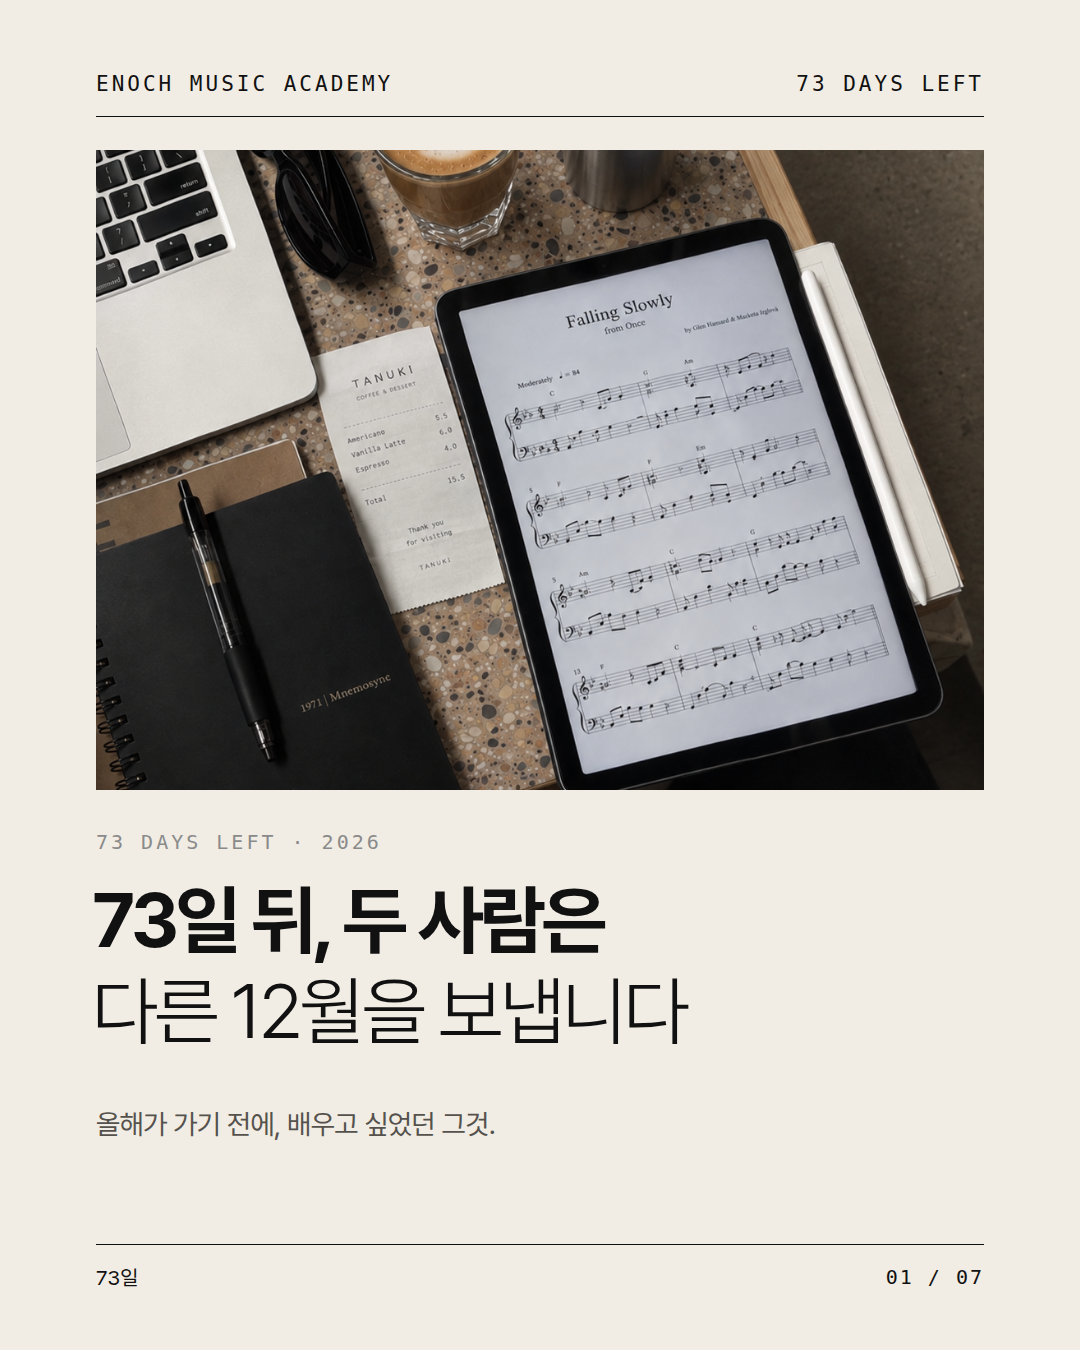
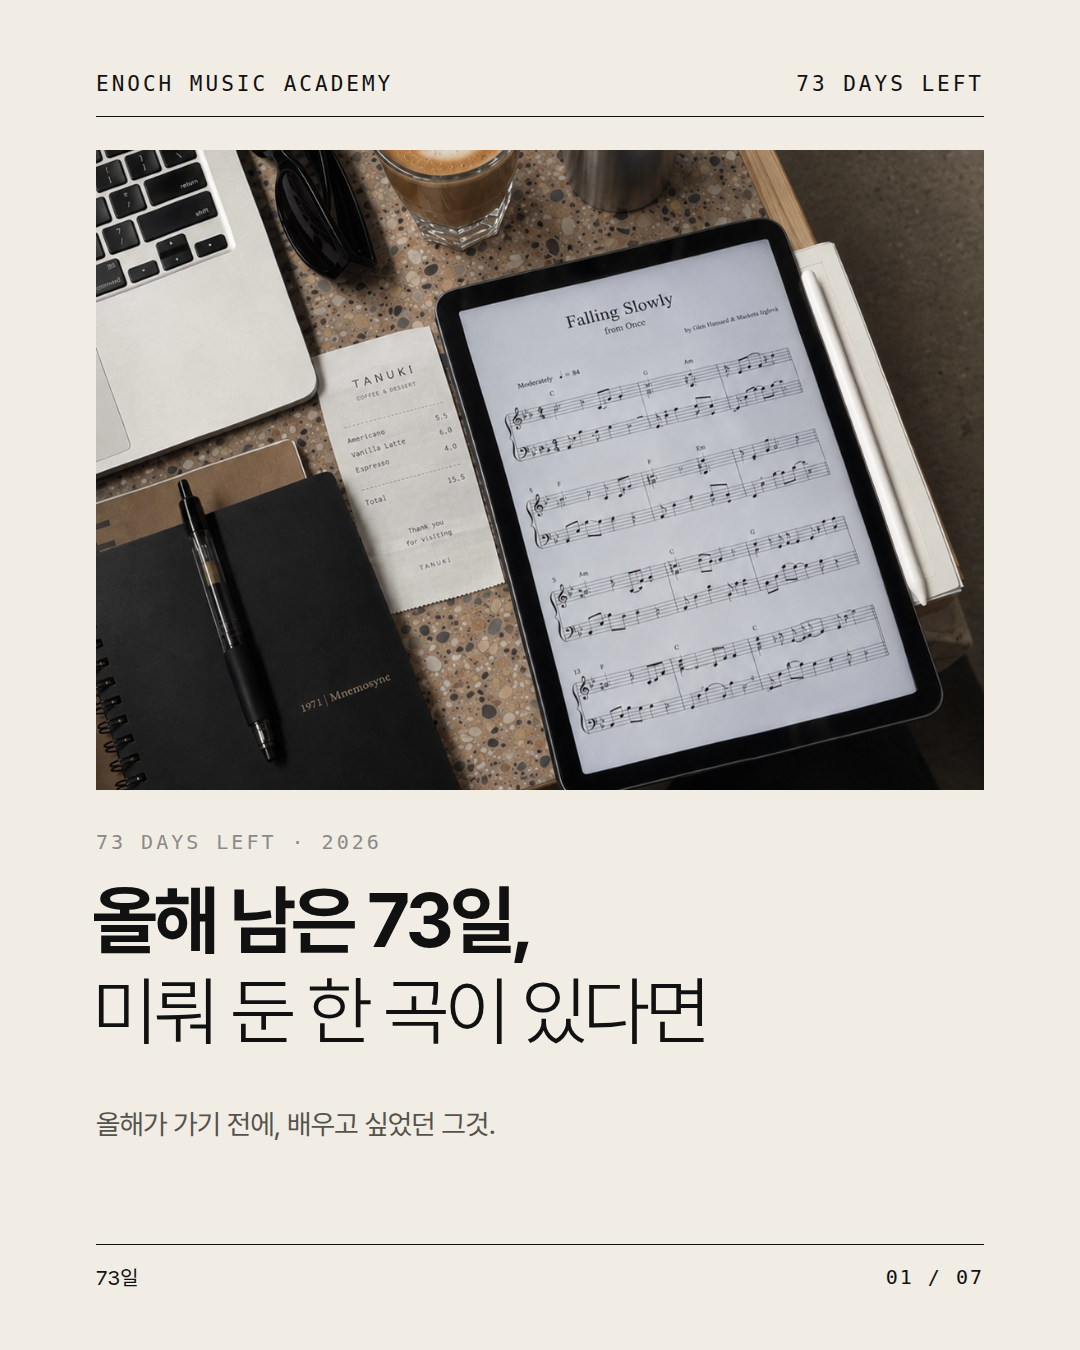
73일: 표지 제목 변경
Claude-Session: https://claude.ai/code/session_01HGbZvgMeYrbU7mY8bwfjyb

Changed region(s): [[0.0917, 0.6533, 0.6722, 0.7778]]

diff --git a/output/노트_남은날짜/deck.html b/output/노트_남은날짜/deck.html
@@ -36,7 +36,7 @@
 </style></head><body><section class="s" id="c1"><div class="hd"><span>ENOCH MUSIC ACADEMY</span><span>73 DAYS LEFT</span></div>
 <img src="../../images/기타/라이프_악보카페_01.png" style="position:absolute;left:96px;top:150px;width:888px;height:640px;object-fit:cover;object-position:60% 52%;display:block;filter:saturate(.85)">
 <div class="k a" style="left:96px;top:830px">73 Days Left · 2026</div>
-<div class="h a" style="left:92px;top:875px;font-size:76px;letter-spacing:-3.8px;line-height:1.2">73일 뒤, 두 사람은<br><em>다른 12월을 보냅니다</em></div>
+<div class="h a" style="left:92px;top:875px;font-size:76px;letter-spacing:-3.8px;line-height:1.2">올해 남은 73일,<br><em>미뤄 둔 한 곡이 있다면</em></div>
 <div class="p a" style="left:96px;top:1100px;font-size:28px">올해가 가기 전에, 배우고 싶었던 그것.</div>
 <div class="ft"><span>73일</span><span>01 / 07</span></div></section><section class="s dark" id="c2"><div class="hd"><span>ENOCH MUSIC ACADEMY</span><span>EVERY AUTUMN</span></div>
 <div class="k a" style="left:96px;top:200px">Every Autumn</div>

diff --git a/output/노트_남은날짜/gen.py b/output/노트_남은날짜/gen.py
@@ -54,7 +54,7 @@ S=[]
 S.append(f"""<section class="s" id="c1">{HD()}
 <img src="../../images/기타/라이프_악보카페_01.png" style="position:absolute;left:96px;top:150px;width:888px;height:640px;object-fit:cover;object-position:60% 52%;display:block;filter:saturate(.85)">
 <div class="k a" style="left:96px;top:830px">{DAYS} Days Left · {POST.year}</div>
-<div class="h a" style="left:92px;top:875px;font-size:76px;letter-spacing:-3.8px;line-height:1.2">{DAYS}일 뒤, 두 사람은<br><em>다른 12월을 보냅니다</em></div>
+<div class="h a" style="left:92px;top:875px;font-size:76px;letter-spacing:-3.8px;line-height:1.2">올해 남은 {DAYS}일,<br><em>미뤄 둔 한 곡이 있다면</em></div>
 <div class="p a" style="left:96px;top:1100px;font-size:28px">올해가 가기 전에, 배우고 싶었던 그것.</div>
 {FT(1)}</section>""")
 # 02 매년 같은 말

diff --git a/output/노트_남은날짜/caption.md b/output/노트_남은날짜/caption.md
@@ -1,6 +1,6 @@
 # 캡션: 73일
 
-73일 뒤, 두 사람은 다른 12월을 보냅니다.
+올해 남은 73일, 미뤄 둔 한 곡이 있다면.
 
 매년 이맘때 "내년엔 꼭" 하고 넘긴 그 악기, 그 노래. 지금 시작한 사람의 12월에는 끝까지 불러 본 한 소절이 남아 있을 거예요.
 
